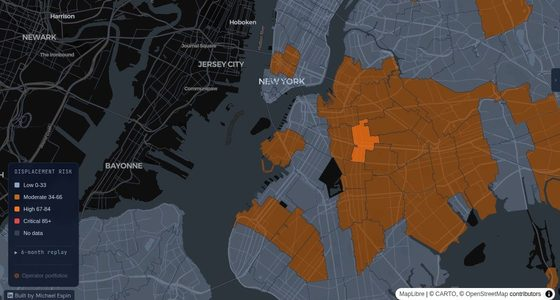
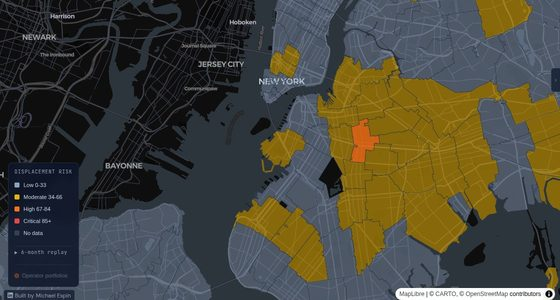
fix(map): give the moderate tier its own hue
Bronze moderates at 0.62 opacity collapsed into the high-tier orange, so
the whole map read as two tones. Moderate is now gold (#eab308, 0.55
opacity): the ramp runs silver, gold, orange, red, and a High ZIP stands
apart from the moderates around it at a glance. Legend, methodology dot,
landing teaser images, and the og-image card regenerated to match.

diff --git a/frontend/app.html b/frontend/app.html
@@ -438,7 +438,7 @@
             <div id="map-legend" class="absolute bottom-9 left-4 z-10 rounded-lg px-3 py-2 flex flex-col gap-1" style="background:rgba(15,23,42,0.88);backdrop-filter:blur(6px);border:1px solid rgba(148,163,184,0.15);font-size:11px;">
                 <div class="text-slate-400 font-mono uppercase tracking-wider mb-0.5" style="font-size:10px;letter-spacing:0.08em;"><span id="legend-header">displacement risk</span></div>
                 <div class="flex items-center gap-2"><span style="width:10px;height:10px;border-radius:2px;background:#8da2c0;display:inline-block;flex-shrink:0;"></span><span id="legend-low" class="text-slate-300">Low 0-33</span></div>
-                <div class="flex items-center gap-2"><span style="width:10px;height:10px;border-radius:2px;background:#c2661b;display:inline-block;flex-shrink:0;"></span><span id="legend-moderate" class="text-slate-300">Moderate 34-66</span></div>
+                <div class="flex items-center gap-2"><span style="width:10px;height:10px;border-radius:2px;background:#eab308;display:inline-block;flex-shrink:0;"></span><span id="legend-moderate" class="text-slate-300">Moderate 34-66</span></div>
                 <div class="flex items-center gap-2"><span style="width:10px;height:10px;border-radius:2px;background:#f97316;display:inline-block;flex-shrink:0;"></span><span id="legend-high" class="text-slate-300">High 67-84</span></div>
                 <div class="flex items-center gap-2"><span style="width:10px;height:10px;border-radius:2px;background:#ef4444;display:inline-block;flex-shrink:0;"></span><span id="legend-critical" class="text-slate-300">Critical 85+</span></div>
                 <div class="flex items-center gap-2"><span style="width:10px;height:10px;border-radius:2px;background:#334155;display:inline-block;flex-shrink:0;"></span><span id="legend-no-data" class="text-slate-300">No data</span></div>
@@ -2122,7 +2122,7 @@
                         [
                             'step', ['coalesce', ['feature-state', 'score'], ['get', 'score']],
                             '#8da2c0',
-                            34, '#c2661b',
+                            34, '#eab308',
                             67, '#f97316',
                             85, '#ef4444'
                         ]
@@ -2133,7 +2133,7 @@
                         [
                             'step', ['coalesce', ['feature-state', 'score'], ['get', 'score']],
                             0.5,
-                            34, 0.62,
+                            34, 0.55,
                             67, 0.82,
                             85, 0.9
                         ]

diff --git a/frontend/methodology.html b/frontend/methodology.html
@@ -686,7 +686,7 @@
                 <span class="score-range-label">Low pressure</span>
             </div>
             <div class="score-range">
-                <div class="color-dot" style="background:#92400e;"></div>
+                <div class="color-dot" style="background:#eab308;"></div>
                 <span class="score-range-num">34 – 66</span>
                 <span class="score-range-label">Moderate pressure</span>
             </div>
